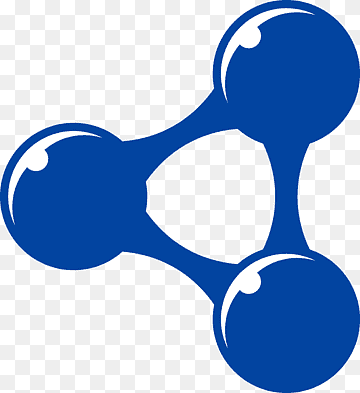
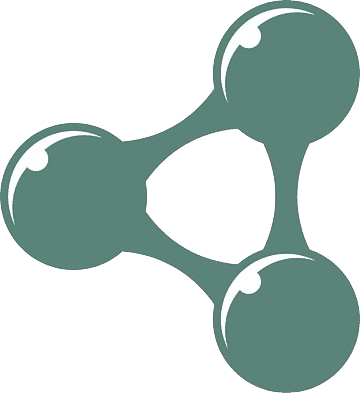
unificar color iconos de las tecnologias en base al nuevo diseño

diff --git a/src/app/experience/experience.component.css b/src/app/experience/experience.component.css
@@ -45,6 +45,7 @@
     justify-content: center;
     margin: 10px 0;
     padding: 10px;
+    color: #265C4F; /*Color del texto Tecnologias que uso*/
 }
 
 .tech-icon i, 
@@ -53,13 +54,14 @@
     margin-bottom: 10px;
     max-width: 40px;
     height: auto;
+    color: #265C4F;
 }
 
 @media (min-width: 768px) {
     .tech-icon i,
     .tech-icon img {
-        font-size: 60px;
-        max-width: 60px;
+        font-size: 160px;
+        max-width: 160px;
     }
     
     .tech-icons {
@@ -182,7 +184,7 @@
     }
 
     &.selected {
-        background-color: #7ecab2;
+        background-color:  #4b997e; /*Experiecia sselecionada*/
         color: #1a1a1a;
     }
 }
@@ -192,7 +194,7 @@
 }
 
 .work {
-    color: #55E6C1;
+    color: #265C4F;
 }
 /* src/app/education/education.component.css */
 .education-section {

diff --git a/src/app/experience/experience.component.html b/src/app/experience/experience.component.html
@@ -158,7 +158,7 @@
                     <p>{{kafka}}</p>
                 </div>
                 <div class="tech-icon">
-                    <img src="flume.jpg" alt="Flume">
+                    <img src="flume.png" alt="Flume">
                     <p>{{flume}}</p>
                 </div>
             </div>